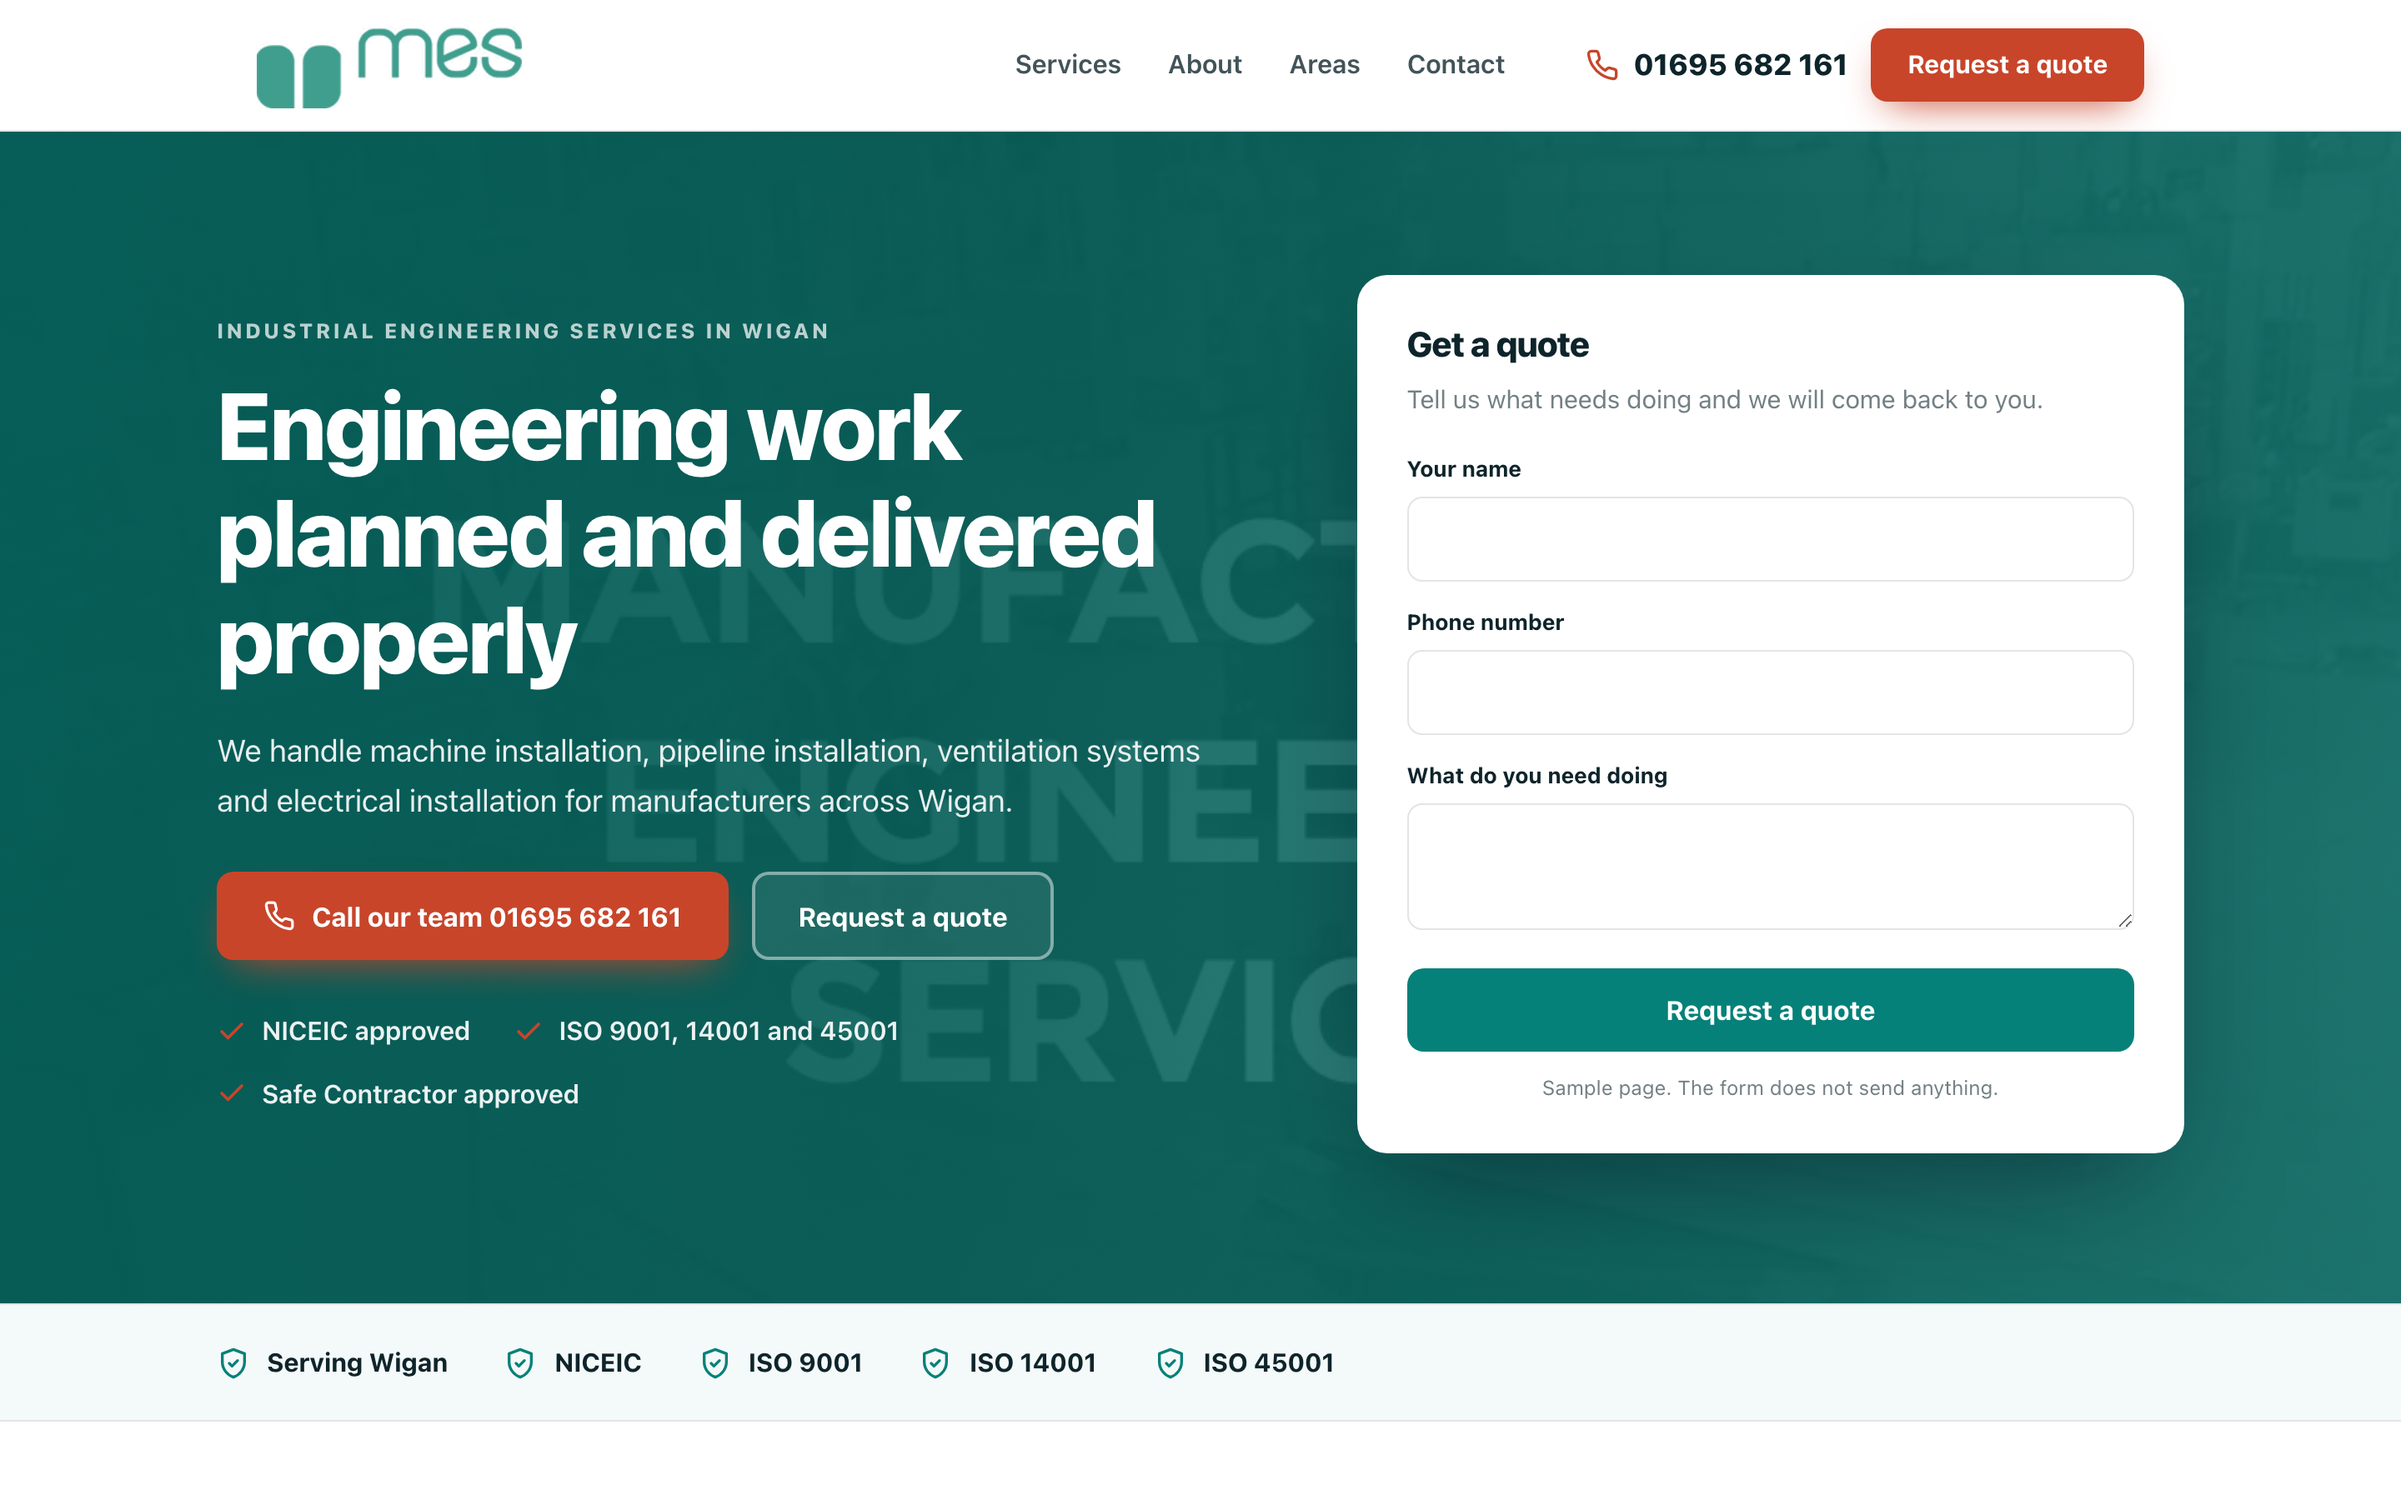
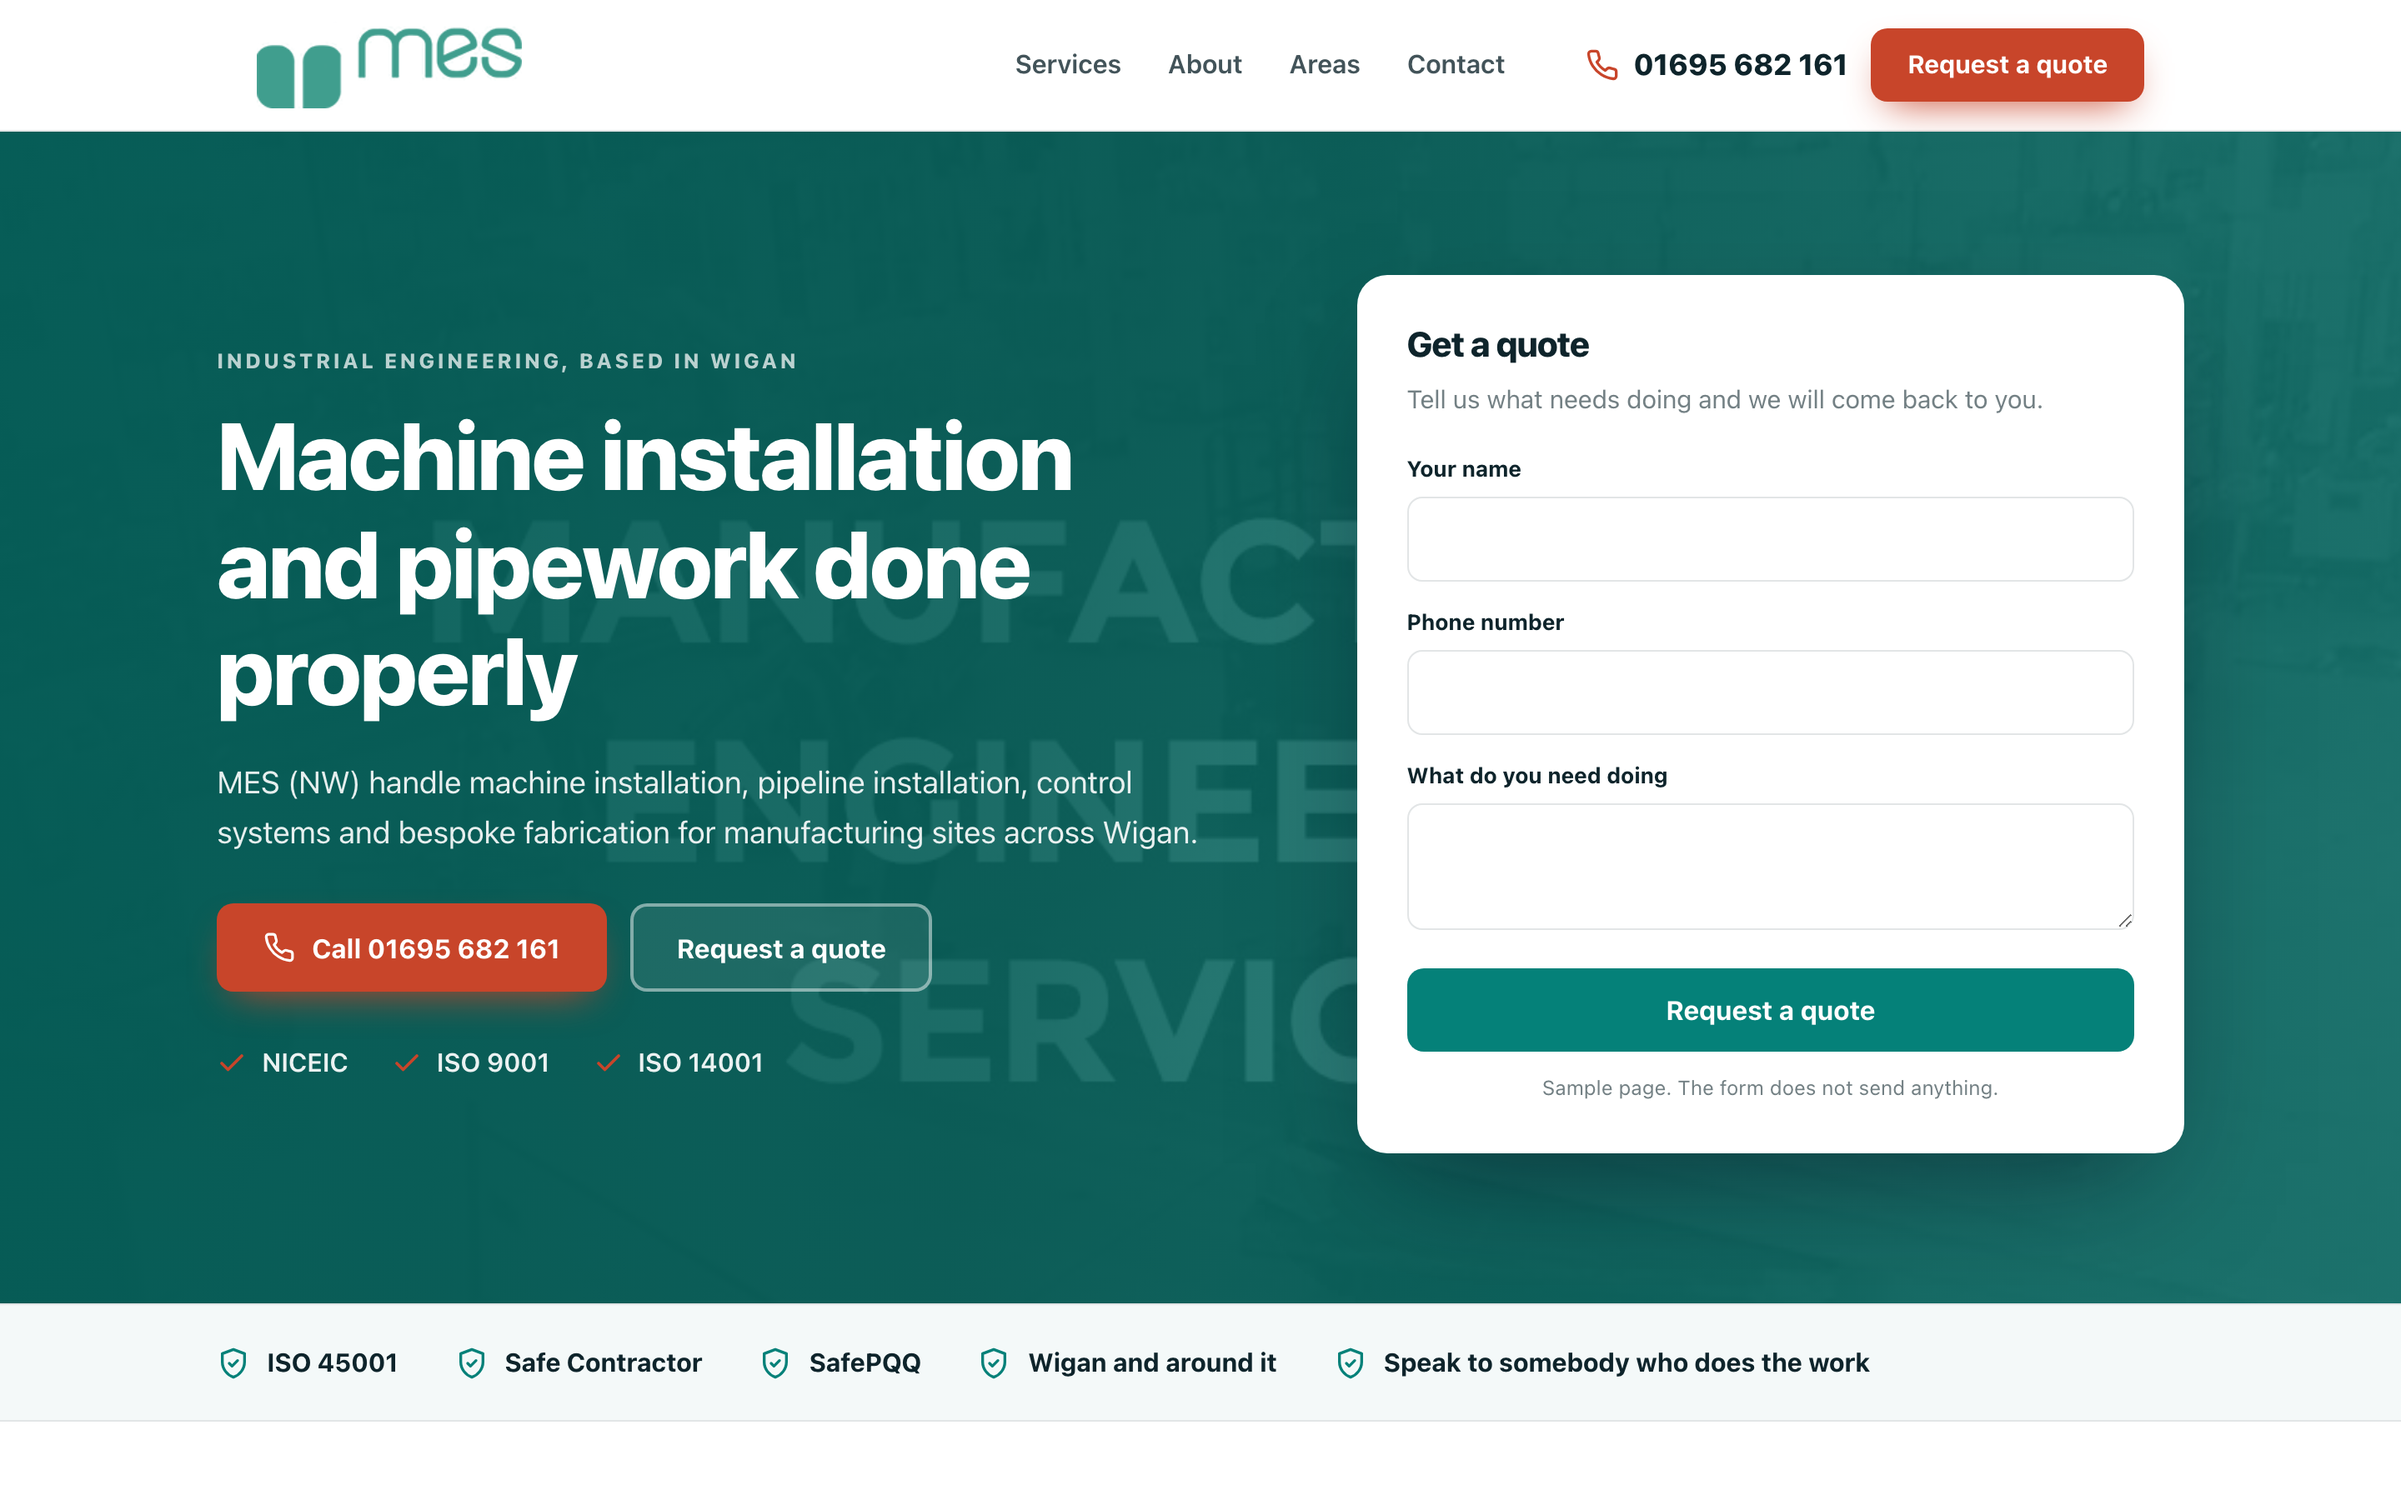
Sample homepage for MES (NW) Ltd

Changed region(s): [[0.0938, 0.2178, 0.5, 0.7467], [0.0938, 0.9022, 0.7812, 0.9333]]

diff --git a/docs/4f9de8e6e5/index.html b/docs/4f9de8e6e5/index.html
@@ -4,12 +4,12 @@
 <meta charset="utf-8">
 <meta name="viewport" content="width=device-width, initial-scale=1">
 <meta name="robots" content="noindex,nofollow">
-<title>niceic sample homepage</title>
-<meta name="description" content="We handle machine installation, pipeline installation, ventilation systems and electrical installation for manufacturers across Wigan.">
+<title>MES (NW) Ltd sample homepage</title>
+<meta name="description" content="MES (NW) handle machine installation, pipeline installation, control systems and bespoke fabrication for manufacturing sites across Wigan.">
 <link rel="canonical" href="https://markygff.github.io/aso-mockups/4f9de8e6e5/">
 <meta property="og:type" content="website">
-<meta property="og:title" content="niceic sample homepage">
-<meta property="og:description" content="We handle machine installation, pipeline installation, ventilation systems and electrical installation for manufacturers across Wigan.">
+<meta property="og:title" content="MES (NW) Ltd sample homepage">
+<meta property="og:description" content="MES (NW) handle machine installation, pipeline installation, control systems and bespoke fabrication for manufacturing sites across Wigan.">
 <meta property="og:url" content="https://markygff.github.io/aso-mockups/4f9de8e6e5/">
 <meta property="og:image" content="https://www.mesnw.co.uk/images/homeslider02.jpg"><style>
 :root{
@@ -119,7 +119,7 @@ p{margin:0}
 <header class="header">
   <div class="wrap header-in">
     <div class="brand">
-<img src="https://www.mesnw.co.uk/images/logo.png" alt="niceic logo">    </div>
+<img src="https://www.mesnw.co.uk/images/logo.png" alt="MES (NW) Ltd logo">    </div>
     <nav class="nav">
       <span>Services</span><span>About</span><span>Areas</span><span>Contact</span>
     </nav>
@@ -131,18 +131,18 @@ p{margin:0}
 </header>
 
 <section class="hero">
-  <div class="hero-bg"><img src="https://www.mesnw.co.uk/images/homeslider02.jpg" alt="niceic at work" width="1600" height="900"></div>
+  <div class="hero-bg"><img src="https://www.mesnw.co.uk/images/homeslider02.jpg" alt="MES (NW) Ltd at work" width="1600" height="900"></div>
   <div class="wrap hero-in">
     <div>
-      <p class="eyebrow">Industrial engineering services in Wigan</p>
-      <h1>Engineering work planned and delivered properly</h1>
-      <p class="hero-sub">We handle machine installation, pipeline installation, ventilation systems and electrical installation for manufacturers across Wigan.</p>
+      <p class="eyebrow">Industrial engineering, based in Wigan</p>
+      <h1>Machine installation and pipework done properly</h1>
+      <p class="hero-sub">MES (NW) handle machine installation, pipeline installation, control systems and bespoke fabrication for manufacturing sites across Wigan.</p>
       <div class="hero-actions">
-        <span class="btn btn-accent"><svg viewBox="0 0 24 24" fill="none" stroke="currentColor" stroke-width="2" stroke-linecap="round" stroke-linejoin="round" aria-hidden="true"><path d="M22 16.9v3a2 2 0 0 1-2.2 2 19.8 19.8 0 0 1-8.6-3.1 19.5 19.5 0 0 1-6-6 19.8 19.8 0 0 1-3.1-8.7A2 2 0 0 1 4.1 2h3a2 2 0 0 1 2 1.7c.1 1 .4 1.9.7 2.8a2 2 0 0 1-.5 2.1L8.1 9.9a16 16 0 0 0 6 6l1.3-1.2a2 2 0 0 1 2.1-.5c.9.3 1.8.6 2.8.7a2 2 0 0 1 1.7 2z"/></svg>Call our team 01695 682 161</span>
+        <span class="btn btn-accent"><svg viewBox="0 0 24 24" fill="none" stroke="currentColor" stroke-width="2" stroke-linecap="round" stroke-linejoin="round" aria-hidden="true"><path d="M22 16.9v3a2 2 0 0 1-2.2 2 19.8 19.8 0 0 1-8.6-3.1 19.5 19.5 0 0 1-6-6 19.8 19.8 0 0 1-3.1-8.7A2 2 0 0 1 4.1 2h3a2 2 0 0 1 2 1.7c.1 1 .4 1.9.7 2.8a2 2 0 0 1-.5 2.1L8.1 9.9a16 16 0 0 0 6 6l1.3-1.2a2 2 0 0 1 2.1-.5c.9.3 1.8.6 2.8.7a2 2 0 0 1 1.7 2z"/></svg>Call 01695 682 161</span>
         <span class="btn btn-ghost">Request a quote</span>
       </div>
       <ul class="hero-bullets">
-<li><svg viewBox="0 0 24 24" fill="none" stroke="currentColor" stroke-width="2.4" stroke-linecap="round" stroke-linejoin="round" aria-hidden="true"><path d="M20 6 9 17l-5-5"/></svg><span>NICEIC approved</span></li><li><svg viewBox="0 0 24 24" fill="none" stroke="currentColor" stroke-width="2.4" stroke-linecap="round" stroke-linejoin="round" aria-hidden="true"><path d="M20 6 9 17l-5-5"/></svg><span>ISO 9001, 14001 and 45001</span></li><li><svg viewBox="0 0 24 24" fill="none" stroke="currentColor" stroke-width="2.4" stroke-linecap="round" stroke-linejoin="round" aria-hidden="true"><path d="M20 6 9 17l-5-5"/></svg><span>Safe Contractor approved</span></li>      </ul>
+<li><svg viewBox="0 0 24 24" fill="none" stroke="currentColor" stroke-width="2.4" stroke-linecap="round" stroke-linejoin="round" aria-hidden="true"><path d="M20 6 9 17l-5-5"/></svg><span>NICEIC</span></li><li><svg viewBox="0 0 24 24" fill="none" stroke="currentColor" stroke-width="2.4" stroke-linecap="round" stroke-linejoin="round" aria-hidden="true"><path d="M20 6 9 17l-5-5"/></svg><span>ISO 9001</span></li><li><svg viewBox="0 0 24 24" fill="none" stroke="currentColor" stroke-width="2.4" stroke-linecap="round" stroke-linejoin="round" aria-hidden="true"><path d="M20 6 9 17l-5-5"/></svg><span>ISO 14001</span></li>      </ul>
     </div>
     <div class="quote-card">
       <h3>Get a quote</h3>
@@ -158,11 +158,11 @@ p{margin:0}
 
 <div class="strip">
   <div class="wrap strip-in">
-    <div class="strip-item"><svg viewBox="0 0 24 24" fill="none" stroke="currentColor" stroke-width="2" stroke-linecap="round" stroke-linejoin="round" aria-hidden="true"><path d="M12 2 4 5v6c0 5 3.4 9.4 8 11 4.6-1.6 8-6 8-11V5z"/><path d="m9 12 2 2 4-4"/></svg><span>Serving Wigan</span></div>
-    <div class="strip-item"><svg viewBox="0 0 24 24" fill="none" stroke="currentColor" stroke-width="2" stroke-linecap="round" stroke-linejoin="round" aria-hidden="true"><path d="M12 2 4 5v6c0 5 3.4 9.4 8 11 4.6-1.6 8-6 8-11V5z"/><path d="m9 12 2 2 4-4"/></svg><span>NICEIC</span></div>
-    <div class="strip-item"><svg viewBox="0 0 24 24" fill="none" stroke="currentColor" stroke-width="2" stroke-linecap="round" stroke-linejoin="round" aria-hidden="true"><path d="M12 2 4 5v6c0 5 3.4 9.4 8 11 4.6-1.6 8-6 8-11V5z"/><path d="m9 12 2 2 4-4"/></svg><span>ISO 9001</span></div>
-    <div class="strip-item"><svg viewBox="0 0 24 24" fill="none" stroke="currentColor" stroke-width="2" stroke-linecap="round" stroke-linejoin="round" aria-hidden="true"><path d="M12 2 4 5v6c0 5 3.4 9.4 8 11 4.6-1.6 8-6 8-11V5z"/><path d="m9 12 2 2 4-4"/></svg><span>ISO 14001</span></div>
     <div class="strip-item"><svg viewBox="0 0 24 24" fill="none" stroke="currentColor" stroke-width="2" stroke-linecap="round" stroke-linejoin="round" aria-hidden="true"><path d="M12 2 4 5v6c0 5 3.4 9.4 8 11 4.6-1.6 8-6 8-11V5z"/><path d="m9 12 2 2 4-4"/></svg><span>ISO 45001</span></div>
+    <div class="strip-item"><svg viewBox="0 0 24 24" fill="none" stroke="currentColor" stroke-width="2" stroke-linecap="round" stroke-linejoin="round" aria-hidden="true"><path d="M12 2 4 5v6c0 5 3.4 9.4 8 11 4.6-1.6 8-6 8-11V5z"/><path d="m9 12 2 2 4-4"/></svg><span>Safe Contractor</span></div>
+    <div class="strip-item"><svg viewBox="0 0 24 24" fill="none" stroke="currentColor" stroke-width="2" stroke-linecap="round" stroke-linejoin="round" aria-hidden="true"><path d="M12 2 4 5v6c0 5 3.4 9.4 8 11 4.6-1.6 8-6 8-11V5z"/><path d="m9 12 2 2 4-4"/></svg><span>SafePQQ</span></div>
+    <div class="strip-item"><svg viewBox="0 0 24 24" fill="none" stroke="currentColor" stroke-width="2" stroke-linecap="round" stroke-linejoin="round" aria-hidden="true"><path d="M12 2 4 5v6c0 5 3.4 9.4 8 11 4.6-1.6 8-6 8-11V5z"/><path d="m9 12 2 2 4-4"/></svg><span>Wigan and around it</span></div>
+    <div class="strip-item"><svg viewBox="0 0 24 24" fill="none" stroke="currentColor" stroke-width="2" stroke-linecap="round" stroke-linejoin="round" aria-hidden="true"><path d="M12 2 4 5v6c0 5 3.4 9.4 8 11 4.6-1.6 8-6 8-11V5z"/><path d="m9 12 2 2 4-4"/></svg><span>Speak to somebody who does the work</span></div>
   </div>
 </div>
 
@@ -170,29 +170,29 @@ p{margin:0}
   <div class="wrap">
     <div class="services-head">
       <p class="eyebrow">What we do</p>
-      <h2>niceic, Wigan</h2>
-      <p>We handle machine installation, pipeline installation, ventilation systems and electrical installation for manufacturers across Wigan.</p>
+      <h2>MES (NW) Ltd, Wigan</h2>
+      <p>MES (NW) handle machine installation, pipeline installation, control systems and bespoke fabrication for manufacturing sites across Wigan.</p>
     </div>
     <div class="grid">
       <article class="card">
         <div class="icon"><svg viewBox="0 0 24 24" fill="none" stroke="currentColor" stroke-width="2" stroke-linecap="round" stroke-linejoin="round" aria-hidden="true"><path d="M14.7 6.3a4 4 0 0 0 5.3 5.3l-8 8a3 3 0 0 1-4.2-4.2z"/><path d="m14.7 6.3 3-3"/></svg></div>
         <h3>machine installation</h3>
-        <p>We install and commission machinery so your production line keeps moving.</p>
+        <p>We install machinery and equipment packages built around your line, not a catalogue.</p>
       </article>
       <article class="card">
         <div class="icon"><svg viewBox="0 0 24 24" fill="none" stroke="currentColor" stroke-width="2" stroke-linecap="round" stroke-linejoin="round" aria-hidden="true"><path d="M13 2 4 14h7l-1 8 9-12h-7z"/></svg></div>
         <h3>pipeline installation</h3>
-        <p>We fabricate and install pipework to suit your operational requirements.</p>
+        <p>Pipework fabrication and installation for a wide range of process requirements.</p>
       </article>
       <article class="card">
         <div class="icon"><svg viewBox="0 0 24 24" fill="none" stroke="currentColor" stroke-width="2" stroke-linecap="round" stroke-linejoin="round" aria-hidden="true"><path d="M3 10.5 12 3l9 7.5"/><path d="M5 9.5V21h14V9.5"/><path d="M10 21v-6h4v6"/></svg></div>
-        <h3>ventilation systems</h3>
-        <p>We design air movement, fire and smoke ventilation systems for your site.</p>
+        <h3>bespoke fabrication</h3>
+        <p>CNC fabrication work built to your spec when an off the shelf part won&#39;t do.</p>
       </article>
       <article class="card">
         <div class="icon"><svg viewBox="0 0 24 24" fill="none" stroke="currentColor" stroke-width="2" stroke-linecap="round" stroke-linejoin="round" aria-hidden="true"><path d="M4 20 15 9"/><path d="m14 4 6 6-3 3-6-6z"/><path d="m3 15 6 6"/></svg></div>
-        <h3>electrical installation</h3>
-        <p>From single power points to full production line electrics, we cover it.</p>
+        <h3>control systems</h3>
+        <p>We take control systems from concept through to delivery, start to finish.</p>
       </article>
     </div>
   </div>
@@ -200,7 +200,7 @@ p{margin:0}
 
 <footer class="footer">
   <div class="wrap footer-in">
-    <span>Sample built for niceic from your public website. Not live. Tell us and we delete it.</span>
+    <span>Sample built for MES (NW) Ltd from your public website. Not live. Tell us and we delete it.</span>
     <span>mesnw.co.uk</span>
   </div>
 </footer>
